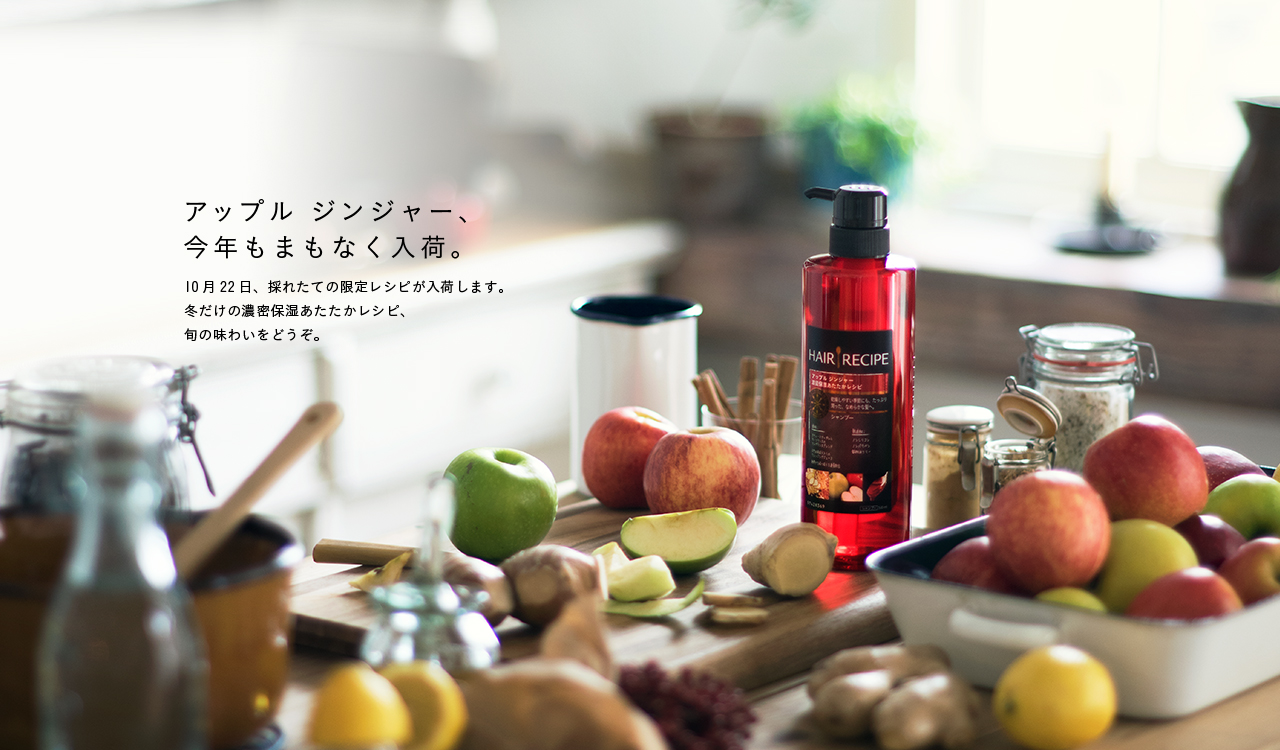
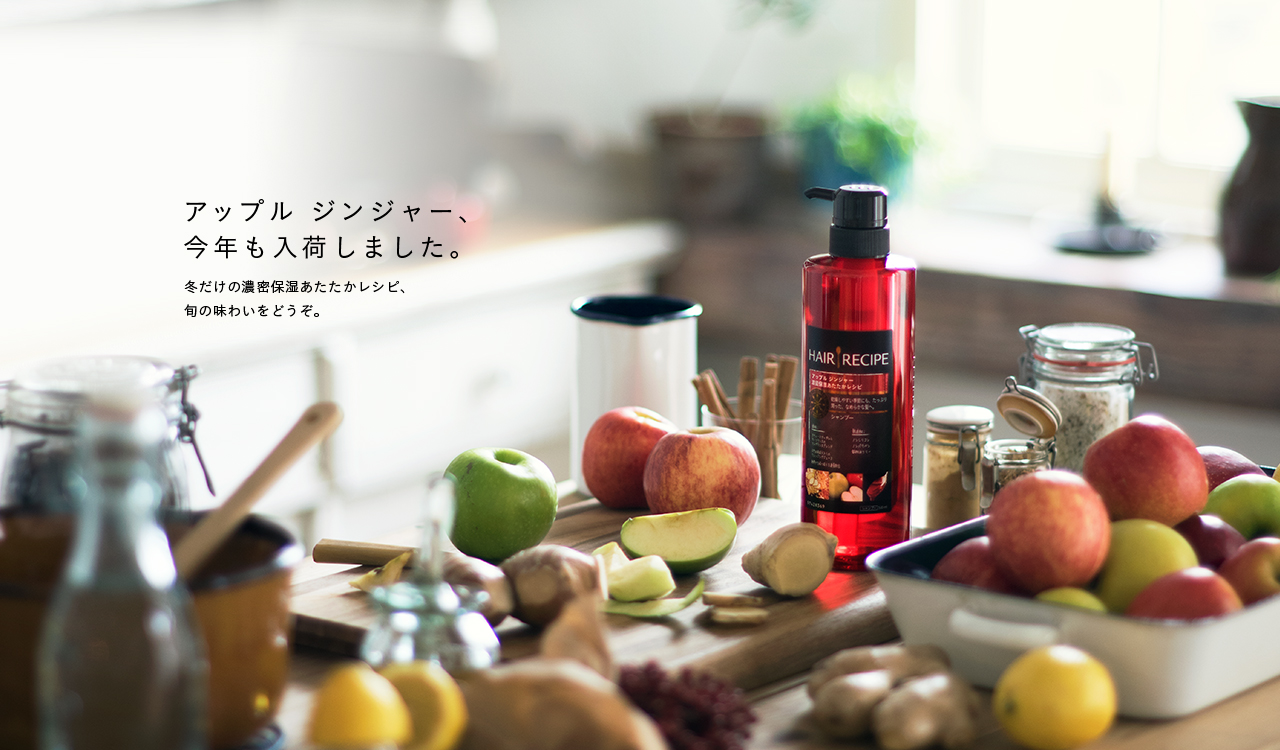
re-uploading image

Changed region(s): [[0.125, 0.3067, 0.375, 0.46]]

diff --git a/hairrecipe/hairrecipe/Content/mobile-hp.css b/hairrecipe/hairrecipe/Content/mobile-hp.css
@@ -4,7 +4,7 @@
 
 .slide-text-content.top{
     position: absolute;
-    top: 16%;
+    top: 20%;
     left: 13%;
     color: #000;
 }
